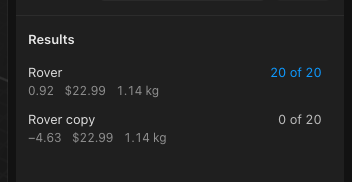
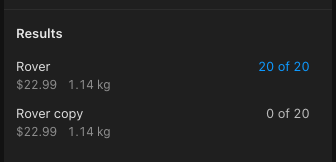
Keep a comparison's rows on the scene they were run for
Review found a race. If a person edited the robot and undid the edit while a
comparison ran, the run for the edited robot landed as the result for the
unedited one. newestComparison now keeps the key last asked for, and a run that
lands for any other key is dropped.

A failed run keeps the last rows and shows its error as a toast, where before
the rows vanished without a word. Runs in flight are shared by key, so
compare_case on the open Case measures each robot once instead of twice. The
median margin leaves the row because it has no unit a person can read; the
agent still gets it. caseChecks.test.ts clears the model cache before each test
and goes back to its original fixture.

Make a Case and Try a robot on a Case now point to the comparison: the open
Case's menu has Compare With, and its rows sit at the top of Results.

diff --git a/src/workspace/useCaseCompare.ts b/src/workspace/useCaseCompare.ts
@@ -1,12 +1,14 @@
-import { useEffect, useEffectEvent, useRef, useState, type RefObject } from 'react';
+import { useEffect, useEffectEvent, useState, type RefObject } from 'react';
 import { knownPurchases } from '../components/build/usePurchases';
 import type { Viewport3DHandle } from '../components/Viewport3D';
 import { comparable, comparableRobots, compareCase, type CompareRobot, type Comparison } from '../cases/caseCompare';
 import type { Case } from '../cases/schema';
 import { jsonHash } from '../utils/geometryHash';
+import { errorMessage } from '../utils/errorMessage';
 import { platformBridge } from '../utils/platformBridge';
 import { caseVerdict } from './caseChecks';
-import type { StudioShared } from './types';
+import { newestComparison } from './newestComparison';
+import type { ShowToast, StudioShared } from './types';
 import type { SceneDocument } from './useSceneDocument';
 
 export interface SceneCaseSource {
@@ -47,12 +49,7 @@ interface CaseCompareOptions {
   fingerprint: string;
   studio: Pick<StudioShared, 'robotsBeside' | 'handleOf' | 'selectTab' | 'tabs'>;
   source: SceneCaseSource;
-}
-
-interface Result {
-  key: string;
-  tabId: string;
-  comparison: Comparison | null;
+  showToast: ShowToast;
 }
 
 type ComparePick = { caseId: string; tabId: string } | null;
@@ -63,17 +60,20 @@ function pickedTab(against: ComparePick, kase: Case | null, tabs: StudioShared['
   return tabs.some((t) => t.id === against.tabId) ? against.tabId : null;
 }
 
-export function useCaseCompare({ inFront, kase, fingerprint, studio, source }: CaseCompareOptions) {
+export function useCaseCompare({ inFront, kase, fingerprint, studio, source, showToast }: CaseCompareOptions) {
   const [choices, setChoices] = useState<CompareChoice[]>([]);
   const [against, setAgainst] = useState<ComparePick>(null);
-  const [result, setResult] = useState<Result | null>(null);
-  const [running, setRunning] = useState(false);
-  const turn = useRef(0);
+  const [newest] = useState(() => newestComparison<Comparison>());
+  const [inFlight] = useState(() => new Map<string, Promise<Comparison>>());
+  const [view, setView] = useState(newest.view);
   const caseKey = kase ? jsonHash(kase) : '';
   const tabsKey = studio.tabs.map((t) => `${t.id}:${t.name}`).join('|');
   const current = pickedTab(against, kase, studio.tabs);
 
-  const compareNow = async (target: Case, tabId: string): Promise<Comparison> => {
+  const keyOf = (target: Case, tabId: string) =>
+    `${jsonHash(target)}|${fingerprint}|${tabId}:${studio.handleOf(tabId)?.fingerprint() ?? ''}`;
+
+  const measureBoth = async (target: Case, tabId: string): Promise<Comparison> => {
     const other = studio.handleOf(tabId);
     const [own, theirs] = await Promise.all([sceneCaseRobot(source), other?.caseRobot() ?? null]);
 
@@ -83,6 +83,15 @@ export function useCaseCompare({ inFront, kase, fingerprint, studio, source }: C
       runs: async (robot) => (await caseVerdict(robot, target)).runs,
       purchases: knownPurchases() ?? (await platformBridge.listPurchases().catch(() => ({}))),
     });
+  };
+
+  const compareNow = (target: Case, tabId: string): Promise<Comparison> => {
+    const key = keyOf(target, tabId);
+    const running = inFlight.get(key) ?? measureBoth(target, tabId).finally(() => inFlight.delete(key));
+
+    inFlight.set(key, running);
+
+    return running;
   };
 
   const choicesFor = (target: Case): CompareChoice[] => {
@@ -102,24 +111,25 @@ export function useCaseCompare({ inFront, kase, fingerprint, studio, source }: C
   }, [inFront, caseKey, tabsKey, fingerprint]);
 
   const rerun = useEffectEvent(async (tabId: string) => {
-    const other = studio.handleOf(tabId);
+    if (!kase || !studio.handleOf(tabId)) return;
 
-    if (!kase || !other) return;
+    const key = keyOf(kase, tabId);
+    const start = newest.want(key);
 
-    const key = `${caseKey}|${fingerprint}|${tabId}:${other.fingerprint()}`;
+    setView(newest.view());
 
-    if (result?.key === key) return;
+    if (!start) return;
 
-    const mine = ++turn.current;
+    try {
+      const comparison = await compareNow(kase, tabId);
 
-    setRunning(true);
+      if (newest.settle({ key, tabId, comparison })) setView(newest.view());
+    } catch (e) {
+      if (!newest.fail(key)) return;
 
-    const comparison = await compareNow(kase, tabId).catch(() => null);
-
-    if (mine !== turn.current) return;
-
-    setResult({ key, tabId, comparison });
-    setRunning(false);
+      setView(newest.view());
+      showToast(errorMessage(e), { tone: 'error' });
+    }
   });
 
   useEffect(() => {
@@ -130,12 +140,13 @@ export function useCaseCompare({ inFront, kase, fingerprint, studio, source }: C
     return () => clearTimeout(soon);
   }, [current, inFront, caseKey, fingerprint, tabsKey]);
 
-  const shown = current && result?.tabId === current && result.comparison?.caseId === kase?.id ? result : null;
+  const { result } = view;
+  const shown = current && result?.tabId === current && result.comparison.caseId === kase?.id ? result : null;
 
   return {
     choices,
     comparison: shown?.comparison ?? null,
-    running: !!current && running,
+    running: !!current && view.running,
     start: (tabId: string) => {
       if (kase) setAgainst({ caseId: kase.id, tabId });
     },

diff --git a/src/workspace/newestComparison.test.ts b/src/workspace/newestComparison.test.ts
@@ -1,0 +1,49 @@
+import { describe, expect, it } from 'vitest';
+import { newestComparison } from './newestComparison';
+
+const settled = (key: string, passes: number) => ({ key, tabId: 'other', comparison: passes });
+
+describe('newestComparison', () => {
+  it('keep the shown rows when an edit is undone while its run is still going', () => {
+    const runs = newestComparison<number>();
+
+    expect(runs.want('F1')).toBe(true);
+    expect(runs.settle(settled('F1', 20))).toBe(true);
+
+    expect(runs.want('F2')).toBe(true);
+    expect(runs.view().running).toBe(true);
+
+    expect(runs.want('F1')).toBe(false);
+    expect(runs.view()).toEqual({ result: settled('F1', 20), running: false });
+
+    expect(runs.settle(settled('F2', 0))).toBe(false);
+    expect(runs.view()).toEqual({ result: settled('F1', 20), running: false });
+  });
+
+  it('take a redone edit’s run when it lands after the undo and redo', () => {
+    const runs = newestComparison<number>();
+
+    runs.want('F1');
+    runs.settle(settled('F1', 20));
+    runs.want('F2');
+    runs.want('F1');
+
+    expect(runs.want('F2')).toBe(true);
+    expect(runs.settle(settled('F2', 0))).toBe(true);
+    expect(runs.view()).toEqual({ result: settled('F2', 0), running: false });
+  });
+
+  it('keep the last rows when the newest run fails, and ignore an older run’s failure', () => {
+    const runs = newestComparison<number>();
+
+    runs.want('F1');
+    runs.settle(settled('F1', 20));
+    runs.want('F2');
+    runs.want('F3');
+
+    expect(runs.fail('F2')).toBe(false);
+    expect(runs.view().running).toBe(true);
+    expect(runs.fail('F3')).toBe(true);
+    expect(runs.view()).toEqual({ result: settled('F1', 20), running: false });
+  });
+});

diff --git a/src/workspace/caseChecks.test.ts b/src/workspace/caseChecks.test.ts
@@ -10,7 +10,7 @@ import { fixtureRobots } from '../sim/fixtures/robots';
 import type { Case } from '../cases/schema';
 import type { ProjectSettings } from '../types/robotics';
 import { platformBridge } from '../utils/platformBridge';
-import { caseCheckRows, caseVerdict, nextCaseTurn } from './caseChecks';
+import { caseCheckRows, caseVerdict, forgetCaseModels, nextCaseTurn } from './caseChecks';
 
 vi.mock('../cases/caseChecksClient', () => ({
   caseCheckPool: { size: 2, run: vi.fn(), keepOnly: vi.fn() },
@@ -36,6 +36,7 @@ describe('Case rows in Checks', () => {
   beforeEach(() => {
     run.mockReset();
     keepOnly.mockReset();
+    forgetCaseModels();
   });
 
   it('turn a Case whose runs throw into a red note, leaving every other finding and the verdict alone', async () => {
@@ -92,7 +93,7 @@ describe('Case rows in Checks', () => {
         : (answered.then(() => ({ type: 'runs', result: { outcomes } })) as never),
     );
 
-    const scene = sceneWith('quad-servo', 'reach-the-flag');
+    const scene = sceneWith('rover-diff', 'reach-the-flag');
     const older = nextCaseTurn();
     const newest = caseCheckRows({ ...scene, turn: nextCaseTurn() });
 

diff --git a/src/workspace/newestComparison.ts b/src/workspace/newestComparison.ts
@@ -1,0 +1,41 @@
+export interface Settled<T> {
+  key: string;
+  tabId: string;
+  comparison: T;
+}
+
+export interface ComparisonView<T> {
+  result: Settled<T> | null;
+  running: boolean;
+}
+
+export function newestComparison<T>() {
+  let wanted: string | null = null;
+  let view: ComparisonView<T> = { result: null, running: false };
+
+  return {
+    view: () => view,
+    want(key: string): boolean {
+      const start = view.result?.key !== key;
+
+      wanted = key;
+      view = { ...view, running: start };
+
+      return start;
+    },
+    settle(result: Settled<T>): boolean {
+      if (result.key !== wanted) return false;
+
+      view = { result, running: false };
+
+      return true;
+    },
+    fail(key: string): boolean {
+      if (key !== wanted) return false;
+
+      view = { ...view, running: false };
+
+      return true;
+    },
+  };
+}

diff --git a/src/components/simulate/CompareRows.tsx b/src/components/simulate/CompareRows.tsx
@@ -10,8 +10,6 @@ interface RowProps {
   onShow: (() => void) | null;
 }
 
-const signed = (n: number) => `${n < 0 ? '−' : ''}${Math.abs(n).toFixed(2)}`;
-
 const Pending: React.FC = () => (
   <div className="h-[46px] flex flex-col justify-center gap-2">
     <span className="block skeleton-line shimmer h-[9px] w-2/3" />
@@ -31,7 +29,6 @@ const CompareRow: React.FC<RowProps> = ({ robot, better, onShow }) => {
         </span>
       </span>
       <span className="flex gap-3 text-[12px] text-white/50 tabular">
-        <span>{signed(runs.medianMargin)}</span>
         <span>{money.format(robot.costUsd)}</span>
         <span>{fmtG(robot.massG)}</span>
       </span>

diff --git a/src/workspace/caseChecks.ts b/src/workspace/caseChecks.ts
@@ -48,6 +48,8 @@ let turns = 0;
 
 export const nextCaseTurn = () => ++turns;
 
+export const forgetCaseModels = () => models.clear();
+
 const isSkill = (value: unknown): value is Skill =>
   typeof value === 'object' && value !== null && (value as { format?: unknown }).format === 'basecase-skill';
 

diff --git a/src/workspace/useWorkspaceCore.ts b/src/workspace/useWorkspaceCore.ts
@@ -132,6 +132,7 @@ export function useWorkspaceCore({ workspaceId, active, seed, studio }: SceneWor
     fingerprint: readiness.fingerprint,
     studio,
     source: { workspaceId, sceneName: scene.sceneName, docs, viewportRef },
+    showToast,
   });
 
   return {

diff --git a/docs/guide/cases.md b/docs/guide/cases.md
@@ -41,10 +41,10 @@ Two versions of a robot, say one per gripper, are compared on the same Case: dup
 - **Compare With** (the open Case's right-click menu in the Cases view, and ⌘K as Compare With ⟨scene⟩) lists the other open tabs whose robot fits the Case (`comparableRobots` in `src/cases/caseCompare.ts`: `slotRefusal` on the Case's slot, read through `studio.robotsBeside`, §5a). Only Cases with one slot are offered. `useCaseCompare` (`src/workspace/`) refreshes the list in an effect while the tab is in front, since `robotsBeside` is never read during render.
 - **Runs:** `compareCase(kase, robots, { runs, purchases })` gives every robot the same `runs`. In the app that's `caseVerdict` (`src/workspace/caseChecks.ts`, the same call as `run_case`), the Checks row's own path: seeds 1 to 20 in the Case workers, the Case scaled to each robot's reach by `caseRunner`, and one verdict cache keyed by the Case, model and Walk hashes, so a robot whose Checks row already ran answers at once. Model readings are cached per geometry (8 kept). Comparison jobs carry an empty tag, so a Checks rerun's `keepOnly` never drops them.
 - **Cost and mass** come from the existing code: `buildBom(…).totals.estimatedUsd` (`utils/bom.ts`, with no print report, so without support filament) and `robotWeight(…).all.grams`, the Weight check's mass (`utils/engineering.ts`).
-- **Results** shows the two robots first, as two rows: the scene's name, passes out of 20, then the median margin, cost and mass. `betterOf` marks the higher pass rate with the accent; a refusal counts as no passes, and a tie marks neither. Clicking the other robot's row calls its tab's `openCase` (it opens that scene's Case with the same id, or adds this one) and selects the tab.
-- **Reruns:** nothing is saved. A result is keyed by the Case's hash, this scene's readiness fingerprint and the other tab's (`handle.fingerprint()`), and checked again when the Case or this scene changes and when the tab comes back to the front; another scene can only be edited while it's in front, or by its agent.
+- **Results** shows the two robots first, as two rows: the scene's name, passes out of 20, then cost and mass. The median margin stays out of the row: it has no unit a person can read, so only `compare_case` returns it. `betterOf` marks the higher pass rate with the accent; a refusal counts as no passes, and a tie marks neither. Clicking the other robot's row calls its tab's `openCase` (it opens that scene's Case with the same id, or adds this one) and selects the tab.
+- **Reruns:** nothing is saved. A result is keyed by the Case's hash, this scene's readiness fingerprint and the other tab's (`handle.fingerprint()`), and checked again when the Case or this scene changes and when the tab comes back to the front; another scene can only be edited while it's in front, or by its agent. `newestComparison` (`src/workspace/newestComparison.ts`) keeps the key last asked for, and a run that lands for any other key is dropped, so a run started for an edit that was then undone never replaces the rows. A failed run keeps the last rows and shows its error as a toast. Runs in flight are shared by key, so `compare_case` on the open Case and the rows it starts measure each robot once.
 - **Agent:** `compare_case` returns the same rows (§9).
-- **Tests** (`caseCompare.test.ts`): the fixture rover on full wheel motors beats one cut to 30%, on the same 20 seeds; an arm never lists for Reach the Flag; cost and mass equal `buildBom` and `runEngineering`'s. `caseChecks.test.ts` checks that a comparison's runs carry an empty tag and that the robot's Checks row reuses their verdict. `e2e/buildCheck.e2e.test.ts` opens two tabs with the rover, weakens the second's servos, runs Compare With from ⌘K and checks both counts and the mark.
+- **Tests** (`caseCompare.test.ts`): the fixture rover on full wheel motors beats one cut to 30%, on the same 20 seeds; an arm never lists for Reach the Flag; cost and mass equal `buildBom` and `runEngineering`'s. `newestComparison.test.ts` covers an edit undone while its run is going, a redo, and a failure. `caseChecks.test.ts` checks that a comparison's runs carry an empty tag and that the robot's Checks row reuses their verdict. `e2e/buildCheck.e2e.test.ts` opens two tabs with the rover, weakens the second's servos, runs Compare With from ⌘K and checks both counts and the mark.
 
 ### Headless
 

diff --git a/site/content/changelog/2026-11-13-compare-two-robots-on-a-case.md b/site/content/changelog/2026-11-13-compare-two-robots-on-a-case.md
@@ -10,7 +10,7 @@ It's **Compare With** in the open Case's right-click menu in the Cases list, and
 
 Choosing a gripper or a servo used to mean opening each tab and trying the Case once in each. One clean run hides how a design copes when the floor or a servo is a little off. On Reach a Spot, our test rover passed 20 of 20, and a copy with 0.075 N·m wheel motors passed none.
 
-Both robots get the same 20 runs: friction, weight, servo strength and servo delay change a little in each. The two rows top the Results section, with the higher count in blue. Under each name sit the median margin, the bill of materials estimate and the Weight check's mass. Clicking the other row opens its tab with the Case.
+Both robots get the same 20 runs: friction, weight, servo strength and servo delay change a little in each. The two rows top the Results section, with the higher count in blue. Under each name sit the bill of materials estimate and the Weight check's mass. Clicking the other row opens its tab with the Case.
 
 Only Cases with one robot can be compared. The cost leaves out support filament. The agent answers "which is better" with the same runs.
 

diff --git a/site/content/help/compare-two-robots-on-a-case.md b/site/content/help/compare-two-robots-on-a-case.md
@@ -43,7 +43,7 @@ Both scenes must be open in tabs. The other robot must fit the Case, and the Cas
 
 ![Results with Rover passing 20 of 20 in blue and Rover copy passing 0 of 20](/help/compare-two-robots-on-a-case/results.png)
 
-Each row shows the scene's name and how many of 20 runs passed. The higher count is blue, and a tie marks neither. Under the name are the median margin, the estimated cost of the parts and the robot's mass. A margin above 0 clears the goal. Cost is the **Bill of materials** estimate without support filament, and mass is the **Weight** check's.
+Each row shows the scene's name and how many of 20 runs passed. The higher count is blue, and a tie marks neither. Under the name are the estimated cost of the parts and the robot's mass. Cost is the **Bill of materials** estimate without support filament, and mass is the **Weight** check's.
 
 Both robots run the same 20 runs. Each run changes friction, weight, servo strength and servo delay a little, and moves anything that can be pushed up to 15 mm. The Case is scaled to each robot's reach, as it is when you try it.
 

diff --git a/site/content/help/try-a-robot-on-a-case.md b/site/content/help/try-a-robot-on-a-case.md
@@ -32,6 +32,8 @@ Give your robot a task in a simulated world, drive it through, and keep the trie
 
 ![Results with the latest run and one try](/help/try-a-robot-on-a-case/results.png)
 
+While you [compare two robots on a Case](/help/compare-two-robots-on-a-case), their two rows sit at the top of Results, above the latest run.
+
 To teach the robot instead of driving it, use **Train**, between Control and Results: type a goal after **Teach it to**, or click a trained policy to run it.
 
 What the simulation has to guess is in **Build ▸ Checks**. **Torque estimates** names the joints without a servo, whose strength is estimated from the weight they hold, and **Servo models** names servos the simulation has no measured model for. Click a part under either to select it.

diff --git a/site/content/help/make-a-case.md b/site/content/help/make-a-case.md
@@ -50,4 +50,6 @@ The Case opens in the **Simulate** tab, and its world appears on the canvas. Nex
 
 The **Name** field sets the name before you click **Create**. To delete a Case, right-click it under **In this scene** and choose **Delete**. Its tries go with it, so Basecase asks first.
 
+The open Case's menu also has **Compare With**, which runs it on another open scene's robot. See [Compare two robots on a Case](/help/compare-two-robots-on-a-case).
+
 Every goal, world and number is listed in [Case goals, worlds and contracts](/help/case-goals-worlds-and-contracts).
